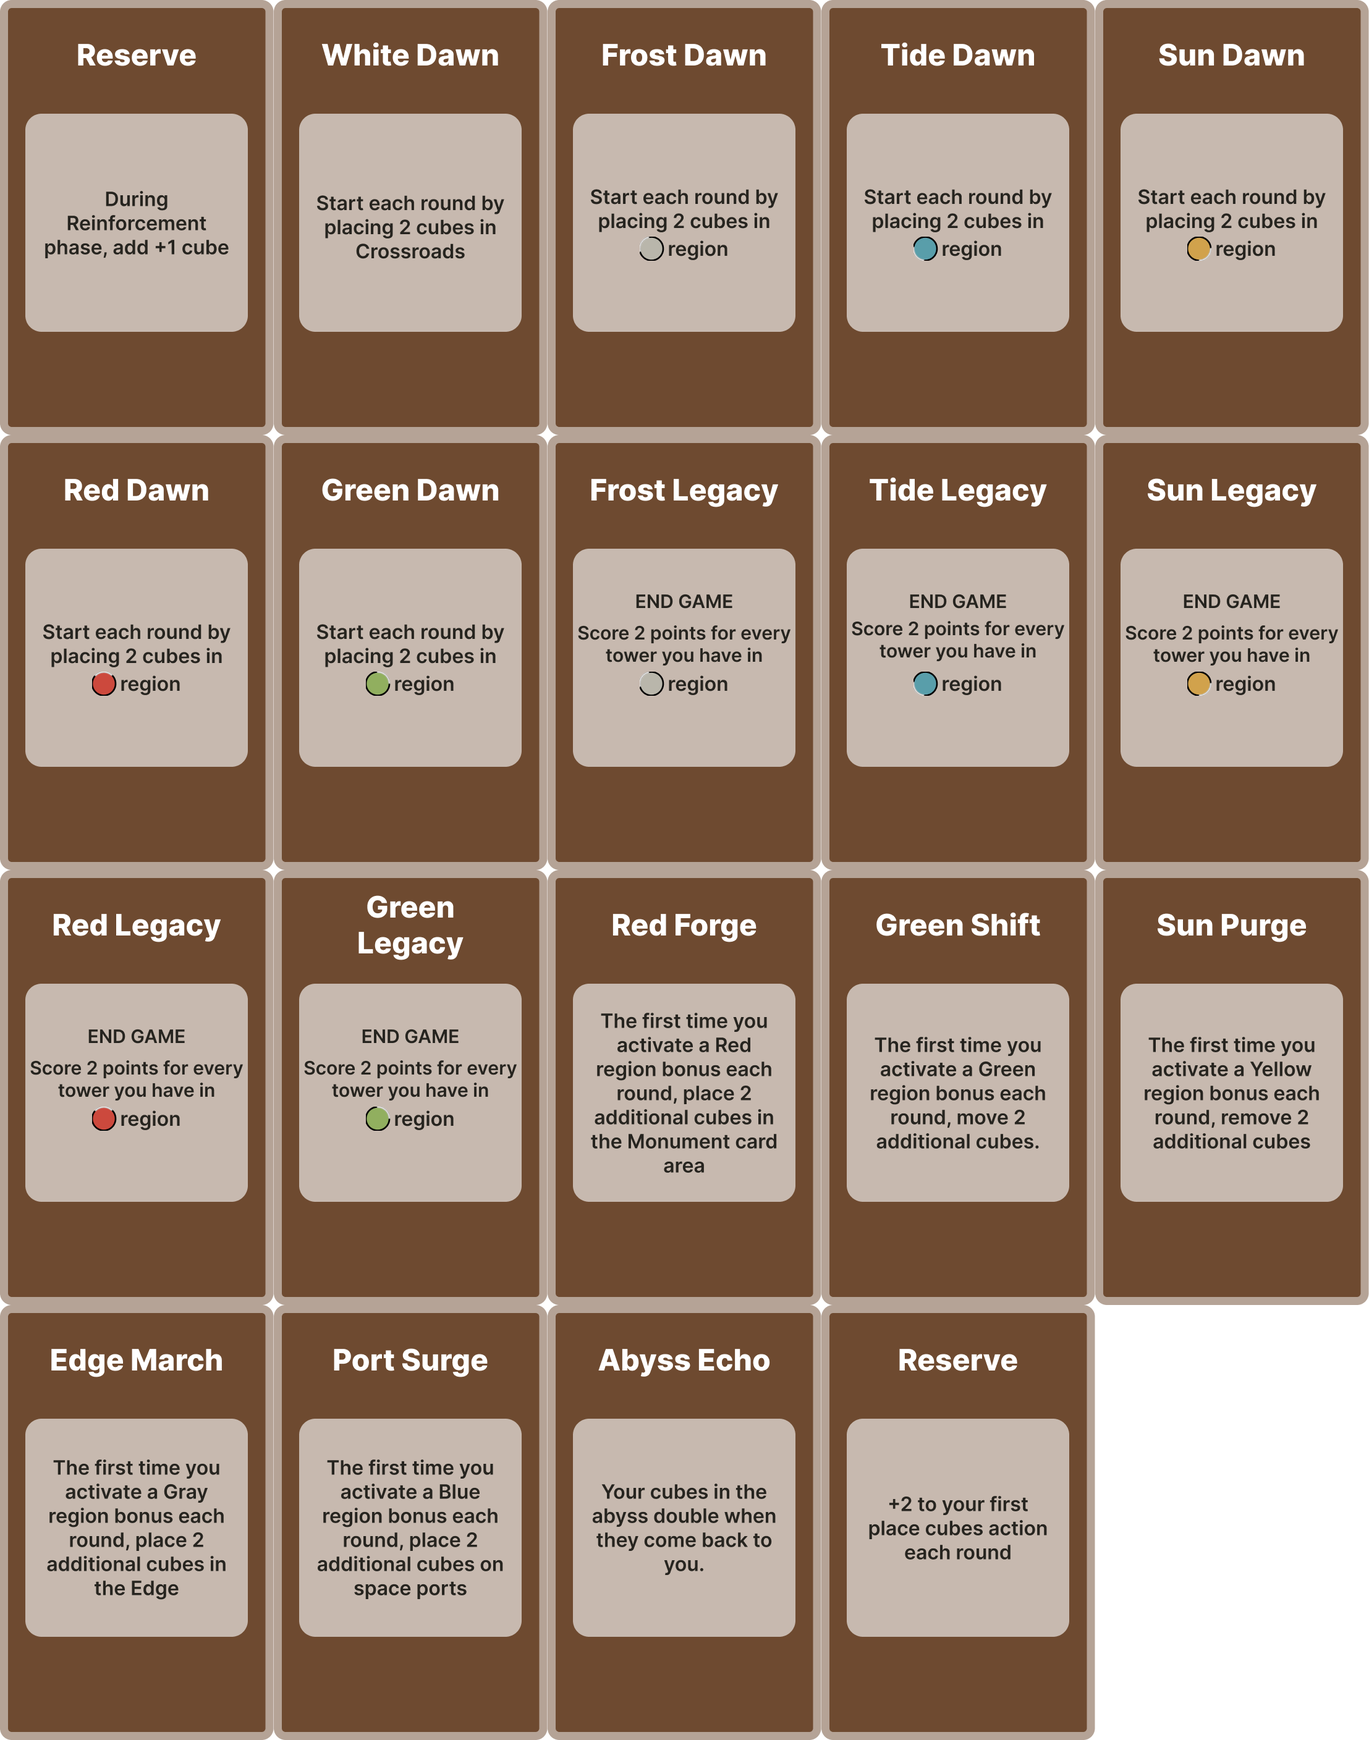
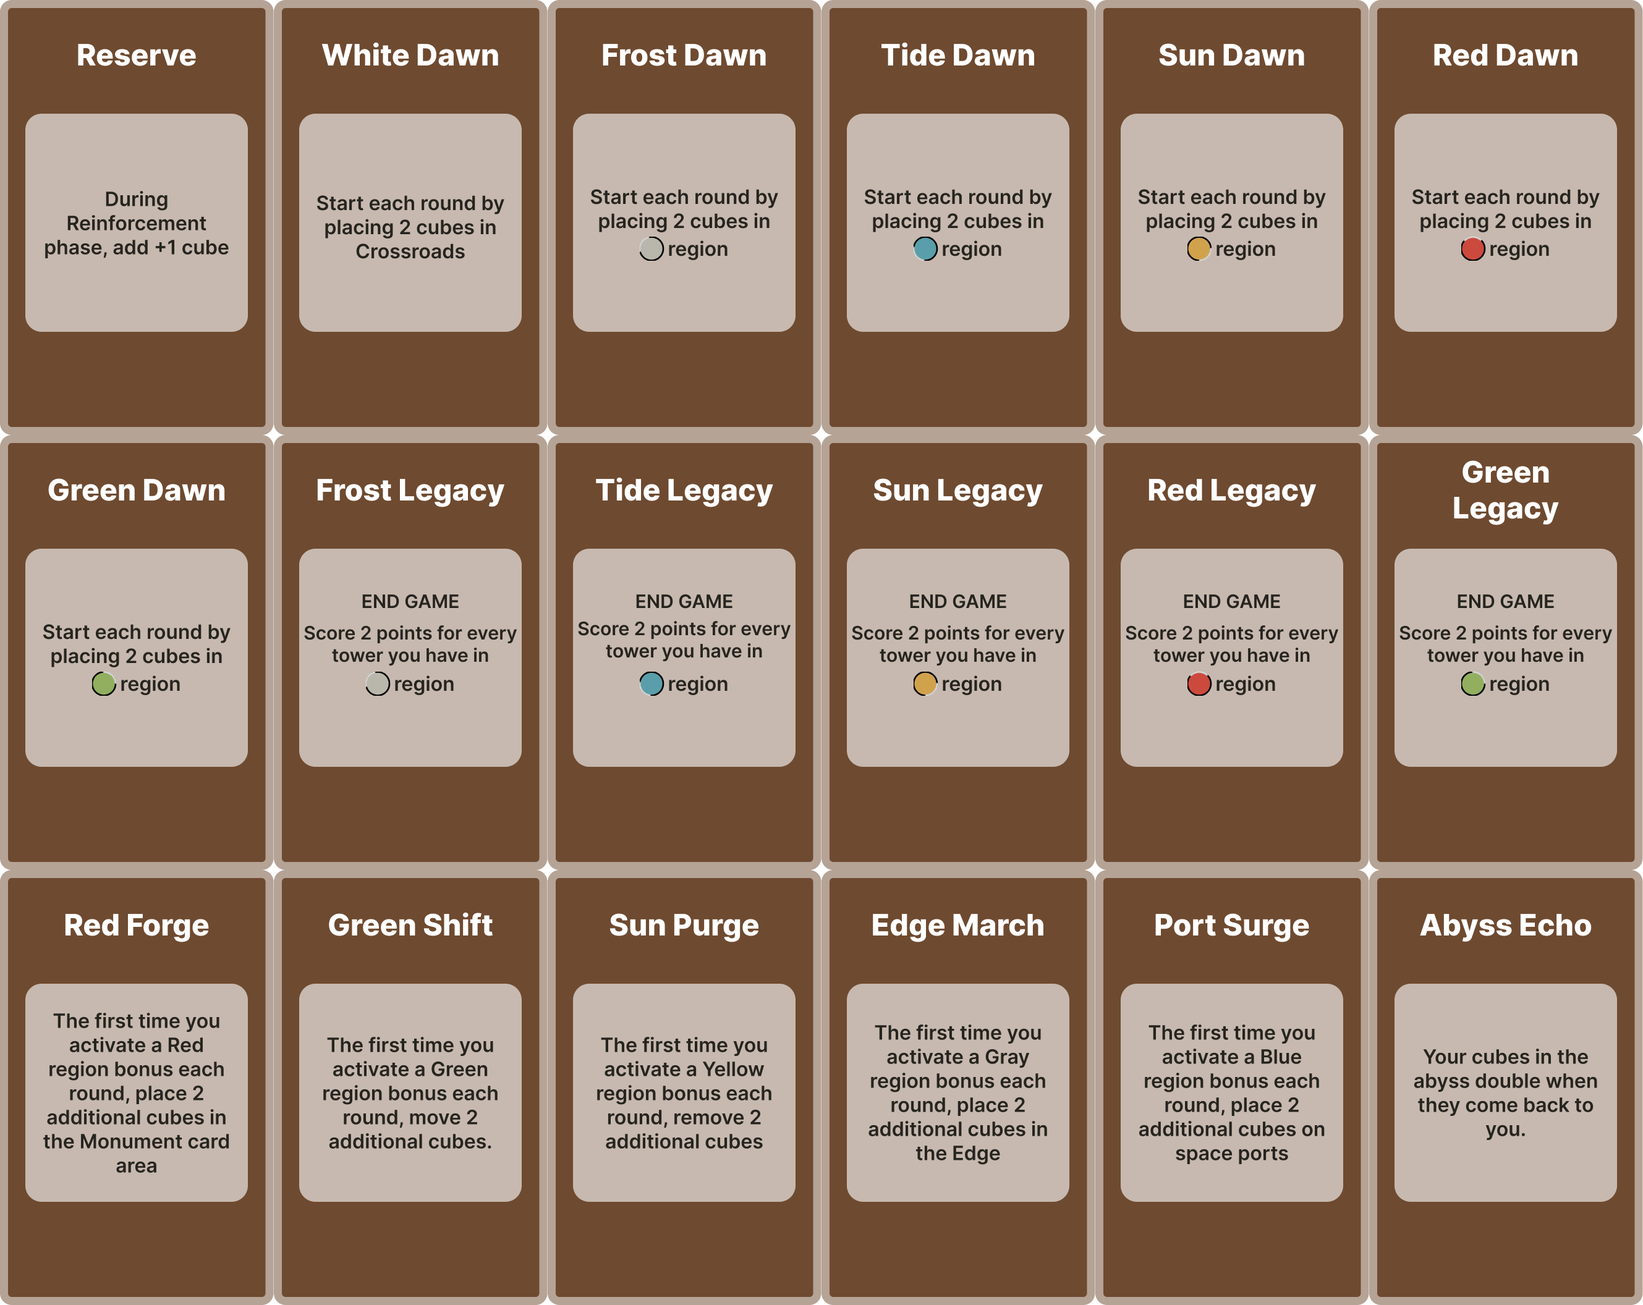
Publish branched actions and revised Page 7 assets

diff --git a/docs/catalog.js b/docs/catalog.js
@@ -1,1 +1,1 @@
-window.FRONTIER_CATALOG = {"source": "Figma Page 7 Game components slice 688:2058", "boards": [{"title": "Main board", "figmaId": "688:2174", "path": "assets/boards/board-main-e46ceed54f.png", "width": 4096, "height": 2960, "revision": "50230d0bb0"}], "cards": [{"title": "Action Guide", "figmaId": "688:780", "path": "assets/cards/card-action-guide-6323e6fee4.png", "width": 506, "height": 729, "revision": "32b6b7b4d4"}, {"title": "Region Bonus Guide", "figmaId": "688:830", "path": "assets/cards/card-region-bonus-guide-800eb32bd9.png", "width": 759, "height": 1098, "revision": "9f711bb71c"}], "references": [], "decks": [{"title": "Monuments", "figmaId": "688:1220", "count": 30, "columns": 6, "rows": 5, "cardWidth": 442, "cardHeight": 640, "face": {"path": "assets/decks/monuments-faces-d44fdccb0e.png", "width": 2652, "height": 3200, "revision": "47f2ccde81"}, "back": {"path": "assets/decks/monuments-back-a65fba90e2.png", "width": 442, "height": 640, "revision": "abfd3f1891"}}, {"title": "Objectives", "figmaId": "688:861", "count": 18, "columns": 6, "rows": 3, "cardWidth": 388, "cardHeight": 519, "face": {"path": "assets/decks/objectives-faces-4d91a50427.png", "width": 2328, "height": 1557, "revision": "c136cf96fc"}, "back": {"path": "assets/decks/objectives-back-c08c78cc67.png", "width": 388, "height": 519, "revision": "cc7db17312"}}, {"title": "Specials", "figmaId": "688:1906", "count": 19, "columns": 5, "rows": 4, "cardWidth": 443, "cardHeight": 704, "face": {"path": "assets/decks/specials-faces-adc1172863.png", "width": 2215, "height": 2816, "revision": "25ad4c82e8"}, "back": {"path": "assets/decks/specials-back-0b946676e3.png", "width": 443, "height": 704, "revision": "a348395311"}}], "dice": [{"title": "Dice 1", "figmaId": "688:2775", "path": "assets/dice/dice-1.png", "width": 1503, "height": 1503, "revision": "f6e7a68519"}, {"title": "Dice 2", "figmaId": "688:2809", "path": "assets/dice/dice-2.png", "width": 1503, "height": 1503, "revision": "1b0198594f"}, {"title": "Dice 3", "figmaId": "688:2792", "path": "assets/dice/dice-3.png", "width": 1503, "height": 1503, "revision": "d3b4453c02"}, {"title": "Dice 4", "figmaId": "688:2826", "path": "assets/dice/dice-4.png", "width": 1503, "height": 1503, "revision": "ac4b4e499b"}, {"title": "Dice 11", "figmaId": "697:2993", "path": "assets/dice/dice-11.png", "width": 1243, "height": 1243, "revision": "5337b3846b"}, {"title": "Dice 22", "figmaId": "697:3173", "path": "assets/dice/dice-22.png", "width": 1243, "height": 1243, "revision": "8618f9aa06"}, {"title": "Dice 33", "figmaId": "697:3193", "path": "assets/dice/dice-33.png", "width": 1243, "height": 1243, "revision": "edca4adeda"}, {"title": "Dice 44", "figmaId": "697:3213", "path": "assets/dice/dice-44.png", "width": 1243, "height": 1243, "revision": "2b5cd1f078"}, {"title": "Dice 55", "figmaId": "697:3233", "path": "assets/dice/dice-55.png", "width": 1243, "height": 1243, "revision": "2c984b4d21"}, {"title": "Dice 111", "figmaId": "699:3254", "path": "assets/dice/dice-111.png", "width": 1243, "height": 1243, "revision": "bb92af58d0"}, {"title": "Dice 222", "figmaId": "699:3291", "path": "assets/dice/dice-222.png", "width": 1243, "height": 1243, "revision": "a2a889b37d"}, {"title": "Dice 333", "figmaId": "699:3329", "path": "assets/dice/dice-333.png", "width": 1243, "height": 1243, "revision": "ce0b8701c2"}, {"title": "Dice 444", "figmaId": "699:3367", "path": "assets/dice/dice-444.png", "width": 1243, "height": 1243, "revision": "ccd3223f1a"}, {"title": "Dice 555", "figmaId": "699:3405", "path": "assets/dice/dice-555.png", "width": 1243, "height": 1243, "revision": "38fc446618"}], "tokens": [{"title": "Build 4", "figmaId": "688:752", "path": "assets/tokens/action-tile-1-fb100c9aa5.png", "width": 426, "height": 426, "revision": "989ae47648"}, {"title": "Region Bonus", "figmaId": "688:777", "path": "assets/tokens/action-tile-2-7107aa55c8.png", "width": 426, "height": 426, "revision": "649b646ee8"}, {"title": "Build 3 — Blue", "figmaId": "688:608", "path": "assets/tokens/action-tile-3.png", "width": 427, "height": 427, "revision": "c6c06dbd7d"}, {"title": "Action Upgrade +2", "figmaId": "688:774", "path": "assets/tokens/action-tile-6-813e8438d5.png", "width": 426, "height": 426, "revision": "d2a8f29a2f"}, {"title": "Build 3", "figmaId": "688:586", "path": "assets/tokens/action-tile-7-7d3d7a7703.png", "width": 426, "height": 426, "revision": "d137d4bdfe"}, {"title": "Move — Blue Yellow Gray", "figmaId": "688:674", "path": "assets/tokens/action-tile-9.png", "width": 427, "height": 427, "revision": "3d2c6d9614"}, {"title": "Build 3 — Gray", "figmaId": "688:630", "path": "assets/tokens/action-tile-11.png", "width": 427, "height": 427, "revision": "2529bdb0a3"}, {"title": "Build 3 — Red", "figmaId": "688:652", "path": "assets/tokens/action-tile-12.png", "width": 427, "height": 427, "revision": "311d42f308"}, {"title": "Move — Blue Yellow", "figmaId": "688:700", "path": "assets/tokens/action-tile-13.png", "width": 427, "height": 427, "revision": "1b44f97706"}, {"title": "Move — Yellow Red", "figmaId": "688:726", "path": "assets/tokens/action-tile-14.png", "width": 427, "height": 427, "revision": "d6157b7006"}]};
+window.FRONTIER_CATALOG = {"source": "Figma Page 7 Game components slice 688:2058", "boards": [{"title": "Main board", "figmaId": "688:2174", "path": "assets/boards/board-main-e46ceed54f.png", "width": 4096, "height": 2960, "revision": "363cb8f324"}], "cards": [{"title": "Action Guide", "figmaId": "688:780", "path": "assets/cards/card-action-guide-6323e6fee4.png", "width": 506, "height": 729, "revision": "32b6b7b4d4"}, {"title": "Region Bonus Guide", "figmaId": "688:830", "path": "assets/cards/card-region-bonus-guide-800eb32bd9.png", "width": 759, "height": 1098, "revision": "9f711bb71c"}], "references": [], "decks": [{"title": "Monuments", "figmaId": "688:1220", "count": 30, "columns": 6, "rows": 5, "cardWidth": 442, "cardHeight": 640, "face": {"path": "assets/decks/monuments-faces-d44fdccb0e.png", "width": 2652, "height": 3200, "revision": "42727ccd92"}, "back": {"path": "assets/decks/monuments-back-a65fba90e2.png", "width": 442, "height": 640, "revision": "abfd3f1891"}}, {"title": "Objectives", "figmaId": "688:861", "count": 18, "columns": 6, "rows": 3, "cardWidth": 388, "cardHeight": 519, "face": {"path": "assets/decks/objectives-faces-4d91a50427.png", "width": 2328, "height": 1557, "revision": "c136cf96fc"}, "back": {"path": "assets/decks/objectives-back-c08c78cc67.png", "width": 388, "height": 519, "revision": "cc7db17312"}}, {"title": "Specials", "figmaId": "688:1906", "count": 18, "columns": 6, "rows": 3, "cardWidth": 443, "cardHeight": 704, "face": {"path": "assets/decks/specials-faces-adc1172863.png", "width": 2658, "height": 2112, "revision": "d1206730b8"}, "back": {"path": "assets/decks/specials-back-0b946676e3.png", "width": 443, "height": 704, "revision": "a348395311"}}], "dice": [{"title": "Dice 1", "figmaId": "688:2775", "path": "assets/dice/dice-1.png", "width": 1503, "height": 1503, "revision": "f6e7a68519"}, {"title": "Dice 2", "figmaId": "688:2809", "path": "assets/dice/dice-2.png", "width": 1503, "height": 1503, "revision": "1b0198594f"}, {"title": "Dice 3", "figmaId": "688:2792", "path": "assets/dice/dice-3.png", "width": 1503, "height": 1503, "revision": "d3b4453c02"}, {"title": "Dice 4", "figmaId": "688:2826", "path": "assets/dice/dice-4.png", "width": 1503, "height": 1503, "revision": "ac4b4e499b"}, {"title": "Dice 11", "figmaId": "697:2993", "path": "assets/dice/dice-11.png", "width": 1243, "height": 1243, "revision": "5337b3846b"}, {"title": "Dice 22", "figmaId": "697:3173", "path": "assets/dice/dice-22.png", "width": 1243, "height": 1243, "revision": "8618f9aa06"}, {"title": "Dice 33", "figmaId": "697:3193", "path": "assets/dice/dice-33.png", "width": 1243, "height": 1243, "revision": "edca4adeda"}, {"title": "Dice 44", "figmaId": "697:3213", "path": "assets/dice/dice-44.png", "width": 1243, "height": 1243, "revision": "2b5cd1f078"}, {"title": "Dice 55", "figmaId": "697:3233", "path": "assets/dice/dice-55.png", "width": 1243, "height": 1243, "revision": "2c984b4d21"}, {"title": "Dice 111", "figmaId": "699:3254", "path": "assets/dice/dice-111.png", "width": 1243, "height": 1243, "revision": "bb92af58d0"}, {"title": "Dice 222", "figmaId": "699:3291", "path": "assets/dice/dice-222.png", "width": 1243, "height": 1243, "revision": "a2a889b37d"}, {"title": "Dice 333", "figmaId": "699:3329", "path": "assets/dice/dice-333.png", "width": 1243, "height": 1243, "revision": "ce0b8701c2"}, {"title": "Dice 444", "figmaId": "699:3367", "path": "assets/dice/dice-444.png", "width": 1243, "height": 1243, "revision": "ccd3223f1a"}, {"title": "Dice 555", "figmaId": "699:3405", "path": "assets/dice/dice-555.png", "width": 1243, "height": 1243, "revision": "38fc446618"}], "tokens": [{"title": "Build 4", "figmaId": "688:752", "path": "assets/tokens/action-tile-1-fb100c9aa5.png", "width": 426, "height": 426, "revision": "989ae47648"}, {"title": "Region Bonus", "figmaId": "688:777", "path": "assets/tokens/action-tile-2-7107aa55c8.png", "width": 426, "height": 426, "revision": "649b646ee8"}, {"title": "Build 3 — Blue", "figmaId": "688:608", "path": "assets/tokens/action-tile-3.png", "width": 427, "height": 427, "revision": "c6c06dbd7d"}, {"title": "Action Upgrade +2", "figmaId": "688:774", "path": "assets/tokens/action-tile-6-813e8438d5.png", "width": 426, "height": 426, "revision": "d2a8f29a2f"}, {"title": "Build 3", "figmaId": "688:586", "path": "assets/tokens/action-tile-7-7d3d7a7703.png", "width": 426, "height": 426, "revision": "d137d4bdfe"}, {"title": "Move — Blue Yellow Gray", "figmaId": "688:674", "path": "assets/tokens/action-tile-9.png", "width": 427, "height": 427, "revision": "3d2c6d9614"}, {"title": "Build 3 — Gray", "figmaId": "688:630", "path": "assets/tokens/action-tile-11.png", "width": 427, "height": 427, "revision": "2529bdb0a3"}, {"title": "Build 3 — Red", "figmaId": "688:652", "path": "assets/tokens/action-tile-12.png", "width": 427, "height": 427, "revision": "311d42f308"}, {"title": "Move — Blue Yellow", "figmaId": "688:700", "path": "assets/tokens/action-tile-13.png", "width": 427, "height": 427, "revision": "1b44f97706"}, {"title": "Move — Yellow Red", "figmaId": "688:726", "path": "assets/tokens/action-tile-14.png", "width": 427, "height": 427, "revision": "d6157b7006"}], "branchedActions": [{"title": "Branched Action 01", "figmaId": "703:3444", "path": "assets/actions-branched/branched-action-01.png", "width": 257, "height": 257, "revision": "9c92650da3"}, {"title": "Branched Action 02", "figmaId": "703:3450", "path": "assets/actions-branched/branched-action-02.png", "width": 257, "height": 257, "revision": "f7ab011e00"}, {"title": "Branched Action 03", "figmaId": "703:3456", "path": "assets/actions-branched/branched-action-03.png", "width": 257, "height": 257, "revision": "8cb54994f9"}, {"title": "Branched Action 04", "figmaId": "703:3461", "path": "assets/actions-branched/branched-action-04.png", "width": 257, "height": 257, "revision": "b8f108c402"}, {"title": "Branched Action 05", "figmaId": "703:3478", "path": "assets/actions-branched/branched-action-05.png", "width": 257, "height": 257, "revision": "c9d400ee30"}, {"title": "Branched Action 06", "figmaId": "703:3488", "path": "assets/actions-branched/branched-action-06.png", "width": 257, "height": 257, "revision": "0190961b8b"}, {"title": "Branched Action 07", "figmaId": "703:3499", "path": "assets/actions-branched/branched-action-07.png", "width": 257, "height": 257, "revision": "32ae4580e2"}, {"title": "Branched Action 08", "figmaId": "703:3502", "path": "assets/actions-branched/branched-action-08.png", "width": 257, "height": 257, "revision": "d65e931684"}, {"title": "Branched Action 09", "figmaId": "703:3507", "path": "assets/actions-branched/branched-action-09.png", "width": 257, "height": 257, "revision": "5d0a4b12f9"}, {"title": "Branched Action 10", "figmaId": "703:3512", "path": "assets/actions-branched/branched-action-10.png", "width": 257, "height": 257, "revision": "b97c40a193"}, {"title": "Branched Action 11", "figmaId": "703:3519", "path": "assets/actions-branched/branched-action-11.png", "width": 257, "height": 257, "revision": "d5519db779"}, {"title": "Branched Action 12", "figmaId": "703:3521", "path": "assets/actions-branched/branched-action-12.png", "width": 257, "height": 257, "revision": "af16a418fe"}, {"title": "Branched Action 13", "figmaId": "703:3523", "path": "assets/actions-branched/branched-action-13.png", "width": 257, "height": 257, "revision": "d9acf92bf3"}, {"title": "Branched Action 14", "figmaId": "703:3539", "path": "assets/actions-branched/branched-action-14.png", "width": 257, "height": 257, "revision": "3cfc820ee0"}]};

diff --git a/docs/index.html b/docs/index.html
@@ -6,8 +6,8 @@
   <meta name="theme-color" content="#12171c">
   <title>Frontier · Tabletop Simulator assets</title>
   <link rel="stylesheet" href="styles.css?v=3">
-  <script defer src="catalog.js?v=fd8ab5b035"></script>
-  <script defer src="app.js?v=8"></script>
+  <script defer src="catalog.js?v=f113b1510e"></script>
+  <script defer src="app.js?v=9"></script>
 </head>
 <body>
   <header class="site-header">
@@ -27,7 +27,7 @@
     </section>
     <div class="notice" id="local-notice" hidden>This is a local preview. The current assets are published on the <a href="https://iv-studio.github.io/FrontierGame/">Frontier GitHub site</a>.</div>
     <nav class="section-nav" aria-label="Asset categories">
-      <a href="#decks">Decks</a><a href="#boards">Boards</a><a href="#cards">Cards</a><a href="#dice">Dice</a><a href="#tokens">Tokens</a>
+      <a href="#decks">Decks</a><a href="#boards">Boards</a><a href="#cards">Cards</a><a href="#dice">Dice</a><a href="#tokens">Tokens</a><a href="#actions-branched">Actions - Branched</a>
     </nav>
     <section class="asset-section" id="decks" aria-labelledby="decks-title">
       <div class="section-head"><div><p class="eyebrow">01 / CARD SHEETS</p><h2 id="decks-title">Decks</h2></div><p>Use the face and back URLs for a Custom Deck. Set Width, Height, and Number to the values shown.</p></div>
@@ -48,6 +48,10 @@
     <section class="asset-section" id="tokens" aria-labelledby="tokens-title">
       <div class="section-head"><div><p class="eyebrow">05 / PLAY PIECES</p><h2 id="tokens-title">Tokens</h2></div><p>Each action tile has its own image URL.</p></div>
       <div id="token-list" class="asset-grid token-grid"></div>
+    </section>
+    <section class="asset-section" id="actions-branched" aria-labelledby="actions-branched-title">
+      <div class="section-head"><div><p class="eyebrow">06 / BRANCHED ACTIONS</p><h2 id="actions-branched-title">Actions - Branched</h2></div><p>Each branched action has its own image URL.</p></div>
+      <div id="branched-action-list" class="asset-grid token-grid"></div>
     </section>
   </main>
   <footer><span>Frontier · Game components</span><span>Source artwork: <a href="https://www.figma.com/design/Pe6o98Z2YYYgNB8kH33Pgl/Frontier?node-id=688-2058" target="_blank" rel="noopener">Figma slice ↗</a></span></footer>

diff --git a/docs/app.js b/docs/app.js
@@ -86,13 +86,15 @@
   }
   for (const deck of catalog.decks) document.getElementById('deck-list').append(renderDeck(deck));
   for (const [key, target] of [['boards', 'board-list'], ['cards', 'card-list'],
-                               ['dice', 'dice-list'], ['tokens', 'token-list']]) {
+                               ['dice', 'dice-list'], ['tokens', 'token-list'],
+                               ['branchedActions', 'branched-action-list']]) {
     for (const asset of catalog[key] || []) document.getElementById(target).append(renderSingle(asset));
   }
   const summary = document.getElementById('summary');
   for (const [value, label] of [[catalog.decks.length, 'Decks'], [catalog.boards.length, 'Boards'],
                                  [catalog.cards.length, 'Single cards'], [catalog.dice.length, 'Dice'],
-                                 [catalog.tokens.length, 'Tokens']]) {
+                                 [catalog.tokens.length, 'Tokens'],
+                                 [catalog.branchedActions.length, 'Branched actions']]) {
     const item = el('div', 'summary-item');
     item.append(el('strong', '', String(value)), el('span', '', label));
     summary.append(item);

diff --git a/scripts/build_assets.py b/scripts/build_assets.py
@@ -166,7 +166,8 @@ def main() -> None:
     DOCS.mkdir(exist_ok=True)
     publish = Publisher()
     catalog = {"source": "Figma Page 7 Game components slice 688:2058", "boards": [],
-               "cards": [], "references": [], "decks": [], "dice": [], "tokens": []}
+               "cards": [], "references": [], "decks": [], "dice": [], "tokens": [],
+               "branchedActions": []}
 
     for slug, title, figma_id in [
         ("board-main", "Main board", "688:2174"),
@@ -186,8 +187,8 @@ def main() -> None:
          (442, 640), 6, 5, "back-monument", 0),
         ("objectives", "objectives", "Objectives", "688:861", 18, 6, (196, 140), (420, 551),
          (388, 519), 6, 3, "back-objective", 0),
-        ("specials", "specials", "Specials", "688:1906", 19, 4, (0, 0), (492, 734),
-         (443, 704), 5, 4, "back-special", 0),
+        ("specials", "specials", "Specials", "688:1906", 18, 4, (0, 0), (492, 734),
+         (443, 704), 6, 3, "back-special", 0),
     ]
     for (slug, asset_slug, title, figma_id, count, source_columns, origin, stride,
          card_size, columns, rows, back_slug, start) in deck_specs:
@@ -240,6 +241,14 @@ def main() -> None:
         catalog["dice"].append({"title": title, "figmaId": figma_id,
                                 **publish(load(slug), "dice", slug)})
 
+    branched_ids = ["3444", "3450", "3456", "3461", "3478", "3488", "3499",
+                    "3502", "3507", "3512", "3519", "3521", "3523", "3539"]
+    for index, node_id in enumerate(branched_ids, start=1):
+        slug = f"branched-action-{index:02d}"
+        catalog["branchedActions"].append({
+            "title": f"Branched Action {index:02d}", "figmaId": f"703:{node_id}",
+            **publish(load(slug), "actions-branched", slug)})
+
     retired = publish.retire_unlisted()
 
     manifest = json.dumps(catalog, indent=2, ensure_ascii=False)
@@ -254,7 +263,8 @@ def main() -> None:
     index.write_text(html, encoding="utf-8")
     print(f"Built {len(catalog['decks'])} decks, {len(catalog['boards'])} boards, "
           f"{len(catalog['cards'])} cards, {len(catalog['references'])} references, "
-          f"{len(catalog['dice'])} dice, {len(catalog['tokens'])} tokens; "
+          f"{len(catalog['dice'])} dice, {len(catalog['tokens'])} tokens, "
+          f"{len(catalog['branchedActions'])} branched actions; "
           f"retired {len(retired)} old images")
 
 

diff --git a/README.md b/README.md
@@ -8,13 +8,13 @@ Current export:
 | --- | ---: | ---: | ---: | --- |
 | Monuments | 30 | 6 | 5 | Monument card back |
 | Objectives | 18 | 6 | 3 | Objective card back |
-| Specials | 19 | 5 | 4 | Special Card back |
+| Specials | 18 | 6 | 3 | Special Card back |
 
-There is one main board, two standalone guide cards, fourteen dice textures, and ten action tiles. Each deck sheet has no spacing between card bounds. The 19-card Special sheet has one unused slot. Set **Back is Hidden** on when importing a deck into TTS.
+There is one main board, two standalone guide cards, fourteen dice textures, ten action tiles, and fourteen branched actions. Each deck sheet has no spacing between card bounds. Set **Back is Hidden** on when importing a deck into TTS. Existing Special decks need Width 6, Height 3, and Number 18 after this update.
 
 ## Refreshing the exports
 
-1. Render the current contents of the Figma slice into `tmp/figma-export/`. Export monument and objective frames, each special card, the board, backs, guides, dice, and action tiles. The Figma node IDs and names are recorded in `docs/catalog.json` and `scripts/build_assets.py`.
+1. Render the current contents of the Figma slice into `tmp/figma-export/`. Export monument and objective frames, each special card, the board, backs, guides, dice, action tiles, and branched actions. The Figma node IDs and names are recorded in `docs/catalog.json` and `scripts/build_assets.py`.
 2. Run `scripts/build_assets.py` with Python and Pillow. This packs the card groups, copies individual assets, and regenerates `docs/catalog.json` and `docs/catalog.js`.
 3. Review the deck previews and counts, then commit and push `docs/` and `archive/` to GitHub. GitHub Pages serves the landing page and current image files.
 
